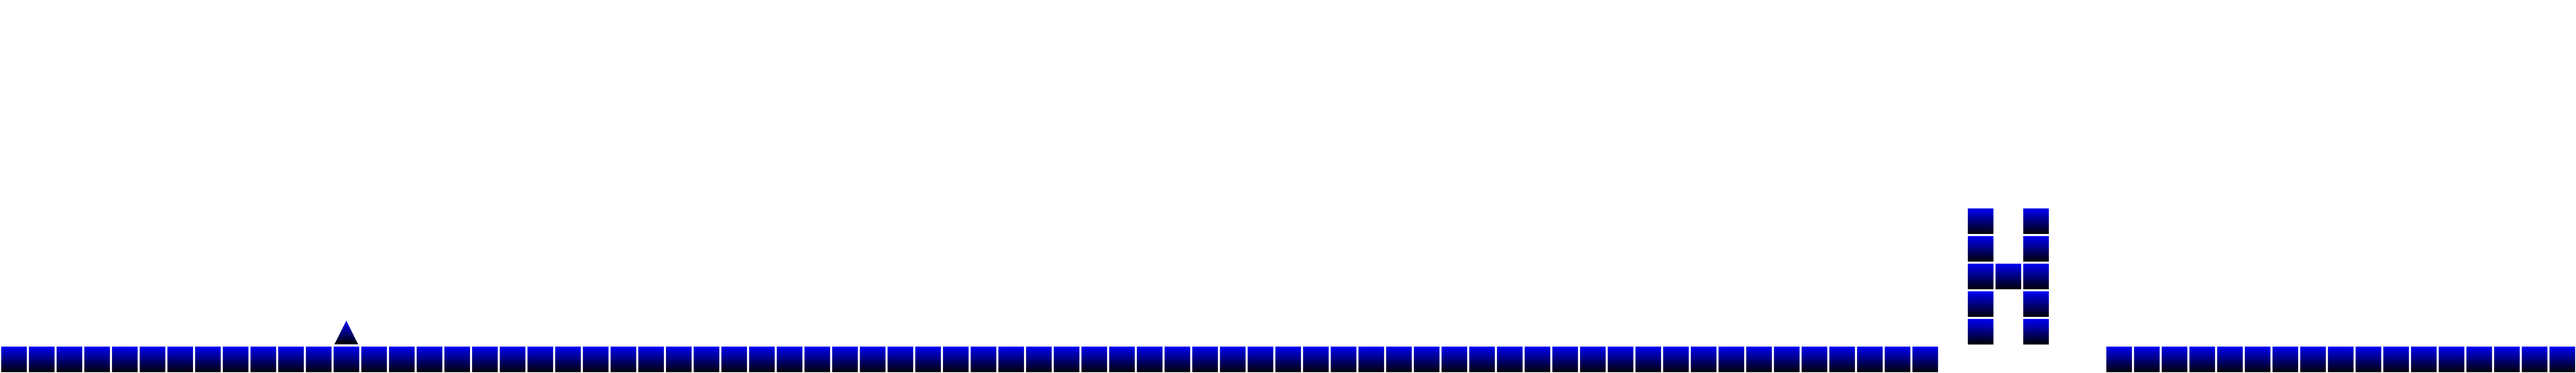
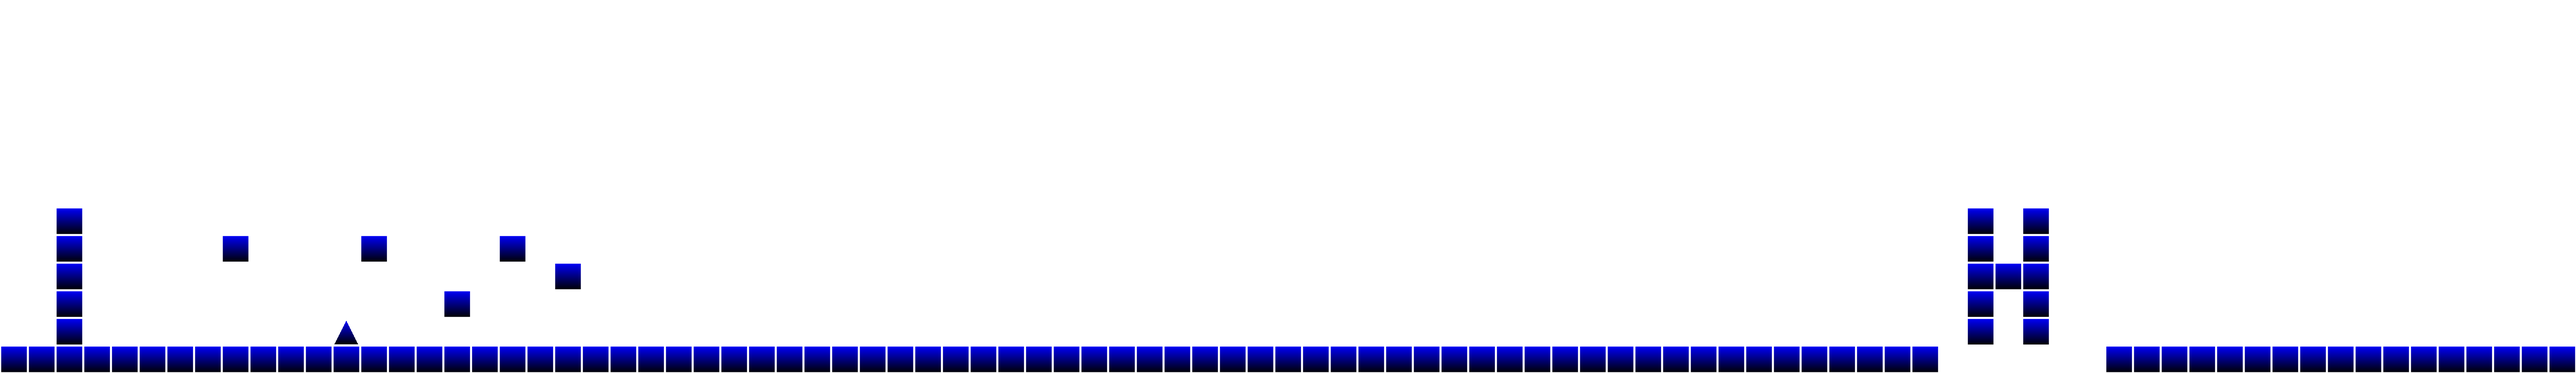
poggers bar in level gameplay

diff --git a/src/LevelGameplayPane.java b/src/LevelGameplayPane.java
@@ -1,4 +1,6 @@
 import acm.graphics.GImage;
+import acm.graphics.GLabel;
+import acm.graphics.GRect;
 import level.GameLevel;
 import level.LevelStitcher;
 
@@ -12,10 +14,15 @@ public class LevelGameplayPane extends GraphicsPane {
     public static final int ELEMENT_SCALING = 80; //how big (in pixels) obstacles are going to appear on screen
     private GameLevel currentLevel;
     private static LevelStitcher stitcher;
+    private boolean paused = false;
+    private long pauseTimestamp;
     private GImage levelImage;
     private GImage backgroundImage;
     private GImage backgroundImage2; //in order to have it scroll
 
+    private GRect progressBarBackground;
+    private GRect progressBar;
+    private GLabel progressBarPercentage;
 
     @Override
     public void showContent() {
@@ -31,8 +38,18 @@ public class LevelGameplayPane extends GraphicsPane {
 
     public LevelGameplayPane(MainApplication mainApplication) {
         stitcher = new LevelStitcher();
+        progressBar = new GRect(200, 20, 1100, 30);
+        progressBar.setFilled(true);
+        progressBar.setFillColor(Color.GREEN);
+        progressBar.setLineWidth(0);
+        progressBarBackground = new GRect(200-5, 20-5, 1100 + 10, 30+10);
+        progressBarBackground.setFilled(true);
+        progressBarBackground.setFillColor(Color.WHITE);
+        progressBarBackground.setLineWidth(0);
+        progressBarPercentage = new GLabel("XX%", 1100 + 20 + 190, 45);
+        progressBarPercentage.setFont(new Font("Comic Sans MS", Font.BOLD, 30));
+        progressBarPercentage.setColor(Color.WHITE);
         this.mainScreen = mainApplication;
-        this.setCurrentLevel(GameLevel.TEST_LEVEL);
     }
 
     public GameLevel getCurrentLevel() {
@@ -41,13 +58,12 @@ public class LevelGameplayPane extends GraphicsPane {
 
     public void setCurrentLevel(GameLevel currentLevel) {
         System.out.println("setting level to " + currentLevel.getLevelName());
-        if (this.currentLevel != null && this.currentLevel.equals(currentLevel)) return;
-
         this.currentLevel = currentLevel;
         levelImage = new GImage("export/" + currentLevel.getLevelName() + "/level.png");
         backgroundImage = new GImage("export/" + currentLevel.getLevelName() + "/background.png");
         backgroundImage2 = new GImage("export/" + currentLevel.getLevelName() + "/background.png");
         stitcher.setLevel(currentLevel);
+        this.mainScreen.setStartMillis(System.currentTimeMillis());
 
         contents.add(backgroundImage);
         mainScreen.add(backgroundImage);
@@ -55,40 +71,51 @@ public class LevelGameplayPane extends GraphicsPane {
         mainScreen.add(backgroundImage2);
         contents.add(levelImage);
         mainScreen.add(levelImage);
-    }
 
-    /**
-     * Test for level rendering
-     */
-    public static void main(String[] args) {
-        MainApplication app = new MainApplication();
-        app.start();
-        app.levelGameplayPane.setCurrentLevel(GameLevel.TEST_LEVEL_2);
-        app.switchToScreen(app.levelGameplayPane);
+        contents.add(progressBarBackground);
+        mainScreen.add(progressBarBackground);
+        contents.add(progressBar);
+        mainScreen.add(progressBar);
+        contents.add(progressBarPercentage);
+        mainScreen.add(progressBarPercentage);
     }
 
     private void renderLevel(long delta) {
 //        this.hideContent();
 //        renderBackground(prog);
+        if (paused) return;
         levelImage.setLocation(-(delta)/2d, -250);
         backgroundImage.setLocation((-(delta)/4d)%backgroundImage.getWidth(), 0);
         backgroundImage2.setLocation(backgroundImage.getX() + backgroundImage.getWidth(), 0);
-
+        float completion = Math.min(1f, (delta / 1000f) / currentLevel.getRuntime());
+        progressBar.setSize(1100 * completion, progressBar.getHeight());
+        progressBarPercentage.setLabel((int)(completion * 100) + "%");
     }
+
 
     /**
      * Code that runs while the game is active
      * @param delta Time since game start in milliseconds
      */
     public void tick(long delta) {
-        System.out.println("tick " + delta);
+//        System.out.println("tick " + delta);
         renderLevel(delta);
+    }
+
+    public void pauseUnpause() {
+        if (!paused) { //pausing behavior
+            paused = true;
+            pauseTimestamp = mainScreen.getDelta();
+        } else { //unpause behavior
+            paused = false;
+            mainScreen.setStartMillis(mainScreen.getStartMillis() + mainScreen.getDelta() - pauseTimestamp); //returns timestamp to where game was paused
+        }
     }
 
     @Override
     public void keyPressed(KeyEvent e) {
-        if (e.getKeyCode() == 27) { //27 = escape key
-            mainScreen.switchToLevelSelectScreen();
+        if (e.getKeyCode() == 27) {
+            pauseUnpause();
         }
         super.keyPressed(e);
     }

diff --git a/src/level/GameLevel.java b/src/level/GameLevel.java
@@ -88,11 +88,11 @@ public class GameLevel {
             "                                                                                             ",
             "                                                                                             ",
             "                                                                                             ",
-            "                                                                       B B                   ",
-            "                                                                       B B                   ",
-            "                                                                       BBB                   ",
-            "                                                                       B B                   ",
-            "            ^                                                          B B                   ",
+            "  B                                                                    B B                   ",
+            "  B     B    B    B                                                    B B                   ",
+            "  B                 B                                                  BBB                   ",
+            "  B             B                                                      B B                   ",
+            "  B         ^                                                          B B                   ",
             "BBBBBBBBBBBBBBBBBBBBBBBBBBBBBBBBBBBBBBBBBBBBBBBBBBBBBBBBBBBBBBBBBBBBBB      BBBBBBBBBBBBBBBBB",
     };
 

diff --git a/src/MainApplication.java b/src/MainApplication.java
@@ -27,6 +27,12 @@ public class MainApplication extends GraphicsProgram {
     private long startMillis = 0;
     private long prevMillis = 0;
 
+    public void setStartMillis(long startMillis) {
+        this.startMillis = startMillis;
+    }
+    public long getStartMillis() {
+        return startMillis;
+    }
     public long getDelta() {
         return System.currentTimeMillis() - startMillis;
     }
@@ -77,7 +83,7 @@ public class MainApplication extends GraphicsProgram {
 
 	public void init() {
 		this.gw.setTitle("Trigonometry Jump");
-		this.gw.setExtendedState(JFrame.MAXIMIZED_BOTH);
+//		this.gw.setExtendedState(JFrame.MAXIMIZED_BOTH);
 		setSize(WINDOW_WIDTH, WINDOW_HEIGHT);
 	}
 
@@ -93,14 +99,11 @@ public class MainApplication extends GraphicsProgram {
 		
 		//TheDefaultPane
 		switchToScreen(startPane);
-	    
-		//play the background music
-	    AudioPlayer.getInstance().playSound("Media", "sunflower-seed-wav");
 
         startMillis = System.currentTimeMillis();
         do {
             System.out.print(" \b"); //<-- this line makes the moving level work for some reason
-            if (getDelta() != prevMillis && getDelta()%16==0) {
+            if (getDelta() != prevMillis && getDelta() % 8 == 0) { //limit frames to 125 per second
                 if (currentScreen.equals(levelGameplayPane)) {
                     levelGameplayPane.tick(getDelta());
                 }

diff --git a/src/LevelSelectPane.java b/src/LevelSelectPane.java
@@ -16,9 +16,7 @@ public class LevelSelectPane extends GraphicsPane {
 	private GLabel playButtonText;
     private AudioPlayer backgroundMusic;
 
-	
-
-    private int currentSelection = 0;
+    private int currentSelection = 1;
 
 	public LevelSelectPane(MainApplication mainScreen) {
 		this.mainScreen = mainScreen;
@@ -104,7 +102,7 @@ public class LevelSelectPane extends GraphicsPane {
         levelDiffIcon.setLocation(playButtonText.getX() - playButton.getX() / 2, playButtonText.getY() - 80);
         contents.add(levelDiffIcon);
         mainScreen.add(levelDiffIcon);
-        
+
         int timeMin = level.getRuntime() / 60;
         int timeSec = level.getRuntime() % 60;
         GLabel runTimeLabel;
@@ -175,9 +173,11 @@ public class LevelSelectPane extends GraphicsPane {
             incrementSelection(1);
             drawLevelInfo();
 		} else if (clicked == playButton || clicked == playButtonText) {
-			System.out.println("Play button clicked!");
+//			System.out.println("Play button clicked!");
             mainScreen.levelGameplayPane.setCurrentLevel(levels[currentSelection]);
+//            System.out.println("Play button clicked 2!");
 			mainScreen.switchToGameplayScreen();
+//            System.out.println("Play button clicked 3!");
 		}
 	}
 

diff --git a/src/AudioPlayer.java b/src/AudioPlayer.java
@@ -1,6 +1,7 @@
 import javax.sound.sampled.*;
 import java.io.File;
 import java.util.ArrayList;
+import java.util.Iterator;
 
 public class AudioPlayer {
 
@@ -31,6 +32,7 @@ public class AudioPlayer {
     }
 
     public void playSound(String folder, String name) {
+        System.out.println("play sound " + name);
         Clip clip = createMediaPlayer(folder, name);
         if (clip != null) {
             clip.loop(Clip.LOOP_CONTINUOUSLY);
@@ -39,8 +41,8 @@ public class AudioPlayer {
     }
 
     public void stopSound(String folder, String name) {
-        for (Clip clip : players) {
-            clip.stop();
+        for (Clip player : players) {
+            player.stop();
         }
     }
 

diff --git a/src/StartPane.java b/src/StartPane.java
@@ -38,6 +38,7 @@ public class StartPane extends GraphicsPane{
 		addText();
 		addDescriptionButton();
 		addSettingButton();
+        System.out.println("show content");
 		playMusic();
 
 	}
